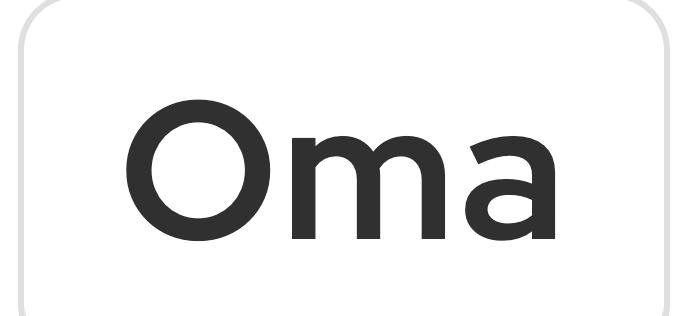
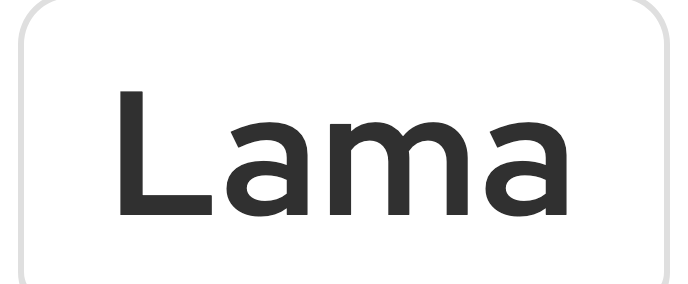
Drawings page rebuilt; sources page updated: DaZ track and voices, Sachunterricht, 793 pictures, 32 topic poses, 43 drawn components, animated badges, 160,000 clips, phrase deck

diff --git a/twist/pages/sources/index.html b/twist/pages/sources/index.html
@@ -64,7 +64,7 @@ td:first-child{font-weight:600;white-space:nowrap}
 <h2 id="read">How to read this</h2>
 <p>The labels are the R&amp;D lesson player's own names for the parts of each screen. Turn on <b>Settings › Label the parts</b> in <code>twist/pages/player/index.html</code> to see them on the live screen; <b>Screen anatomy</b> lists them too. Each row below adds what that list leaves out: the v2 field and the exact source.</p>
 <div class="legend"><span><span class="tag t-in">in v2</span> the field exists in the v2 types</span><span><span class="tag t-add">add to v2</span> the screen needs it and v2 does not carry it yet</span><span><span class="tag t-calc">app works it out</span> computed on the device from other fields</span></div>
-<p>Paths in the source column are relative to <code>twist/</code> in <code>istafrica-DieuMu/twist-content</code>. A lesson's record is <code>lessons/&lt;curriculum&gt;/&lt;year&gt;/&lt;subject&gt;/&lt;skill-slug&gt;.yaml</code>; "set" means that file, "lesson" one entry of its <code>lessons[]</code>.</p>
+<p>Paths in the source column are relative to <code>twist/</code> in <code>istafrica-DieuMu/twist-content</code>. A lesson's record is <code>lessons/&lt;curriculum&gt;/&lt;year&gt;/&lt;subject&gt;/&lt;skill-slug&gt;.yaml</code>; "set" means that file, "lesson" one entry of its <code>lessons[]</code>. A set of a track (DaZ, German as a second language, since 26 Oct 2026) lives in <code>lessons/de-DE/&lt;daz year&gt;/daz/</code> and has <code>track: daz</code>; its skill can also have a set in another subject (Englisch or Deutsch), so a lesson is found by its set id, never by its skill alone.</p>
 
 <h2 id="pipeline">From the repo to the screen</h2>
 <div class="flow">
@@ -92,14 +92,15 @@ td:first-child{font-weight:600;white-space:nowrap}
 <p>The app never builds a media URL itself; the backend sends absolute URLs. This table is for the converter and the upload: how each kind of file is named and which record key picks it.</p>
 <div class="tw"><table>
 <tr><th>Kind</th><th>File in twist/assets</th><th>Picked by</th><th>v2 field</th><th>How many</th></tr>
-<tr><td>Object pictures</td><td><code>objects/&lt;object&gt;.png</code>, or <code>objects/&lt;object&gt;.&lt;colour&gt;.png</code> for a colour version</td><td>A record's <code>object</code> (in <code>show</code>, an option, a pair side); <code>colour</code> picks the colour file when it exists, else the plain file. <code>count</code> repeats it; a story shows its amounts whole with <code>groups: [8, 5]</code> (side by side) or <code>count: 6, gone: 2</code> (2 crossed out). Ids and words: <code>assets/objects.yaml</code></td><td><code>show.image</code>, <code>show.images[]</code>, <code>option.image</code>, <code>option.show.image</code>, <code>show.imageUrls</code></td><td>326 files</td></tr>
+<tr><td>Object pictures</td><td><code>objects/&lt;object&gt;.png</code>, or <code>objects/&lt;object&gt;.&lt;colour&gt;.png</code> for a colour version</td><td>A record's <code>object</code> (in <code>show</code>, an option, a pair side); <code>colour</code> picks the colour file when it exists, else the plain file. <code>count</code> repeats it; a story shows its amounts whole with <code>groups: [8, 5]</code> (side by side) or <code>count: 6, gone: 2</code> (2 crossed out). Ids and words: <code>assets/objects.yaml</code></td><td><code>show.image</code>, <code>show.images[]</code>, <code>option.image</code>, <code>option.show.image</code>, <code>show.imageUrls</code></td><td>793 files</td></tr>
 <tr><td>Mascot poses</td><td><code>mascot/&lt;screen&gt;-&lt;1..3&gt;.png</code> (start, warmup, learn, practise, stage, check, end)</td><td>The screen kind, then one of three by rotation (see Activity intro)</td><td><code>config.mascot[kind][]</code></td><td>21</td></tr>
-<tr><td>Topic poses</td><td><code>mascot/topic-&lt;id&gt;.png</code></td><td><code>assets/mascot.yaml</code> <code>topics[]</code>: the skill's topic (<code>competencies/</code> <code>topic.en</code>), or for the language lessons the domain and curriculum</td><td><code>lesson.topicImage</code>, <code>pathSkill.topicImage</code></td><td>24</td></tr>
+<tr><td>Topic poses</td><td><code>mascot/topic-&lt;id&gt;.png</code></td><td><code>assets/mascot.yaml</code> <code>topics[]</code>: the skill's topic (<code>competencies/</code> <code>topic.en</code>), or for the language lessons the domain and curriculum</td><td><code>lesson.topicImage</code>, <code>pathSkill.topicImage</code></td><td>32 (8 for Sachunterricht)</td></tr>
 <tr><td>Task-screen mascot</td><td><code>pages/player/mascot.png</code> (from <code>mascot/refs/standing.png</code>)</td><td>Always the same</td><td>Ship in the app</td><td>1</td></tr>
-<tr><td>Narration</td><td><code>narration/&lt;voice&gt;/&lt;line-id&gt;.mp3</code></td><td>Every spoken text: <code>say</code>, or <code>text</code> when there is no say; see the next section</td><td>Every <code>audio</code> field</td><td>about 111,000 clips, 3.4 GB in 4 voices</td></tr>
+<tr><td>Narration</td><td><code>narration/&lt;voice&gt;/&lt;line-id&gt;.mp3</code></td><td>Every spoken text: <code>say</code>, or <code>text</code> when there is no say; see the next section</td><td>Every <code>audio</code> field</td><td>about 160,000 clips, 5.0 GB in 6 voices (two German, two English, two French)</td></tr>
 <tr><td>Sounds</td><td><code>narration/&lt;voice&gt;/sounds/&lt;sound-id&gt;.mp3</code> (<code>de.a:</code> becomes <code>de.a-long</code>)</td><td><code>screens[i].sound</code>, a task's <code>audio.sound</code> or <code>audio.sounds[]</code>; ids in <code>assets/sounds.yaml</code></td><td><code>screen.sound</code>, <code>interaction.targetAudio[]</code></td><td>per voice</td></tr>
-<tr><td>Drawn components</td><td>None: the app draws them; each with a picture and a real example on the player's Drawings tab (<code>pages/drawings/</code>)</td><td><code>show.drawn</code> plus its data, as in <code>assets/drawn.yaml</code> (43 components); <code>pages/player/drawn.js</code> draws them, for the player and the app</td><td><code>show.drawn</code> and its data; pictures inside one in <code>show.imageUrls</code> (a pictogram's <code>pictogram_object</code>)</td><td>37 kinds</td></tr>
+<tr><td>Drawn components</td><td>None: the app draws them; each with a picture and a real example on the player's Drawings tab (<code>pages/drawings/</code>)</td><td><code>show.drawn</code> plus its data, as in <code>assets/drawn.yaml</code> (43 components); <code>pages/player/drawn.js</code> draws them, for the player and the app</td><td><code>show.drawn</code> and its data; pictures inside one in <code>show.imageUrls</code> (a pictogram's <code>pictogram_object</code>)</td><td>43 kinds</td></tr>
 <tr><td>Badge art</td><td><code>badges/&lt;id&gt;.svg</code> and <code>&lt;id&gt;.gold.svg</code></td><td>Badge ids in <code>docs/rewards.md</code></td><td>Badge responses (later)</td><td>64</td></tr>
+<tr><td>Animated badges</td><td><code>pages/player/badges/&lt;name&gt;/</code>: artwork, still, intro video with sound, idle loop (from badge-motion-twist.netlify.app)</td><td>The 16 badges they match (<code>MOTION</code> in <code>pages/player/app-ui.js</code>); the rest stay as the SVGs above</td><td>Badge responses (later)</td><td>16</td></tr>
 <tr><td>Fonts</td><td>Not in the repo</td><td>Red Hat Display and Red Hat Text for the app frame, Andika for task text</td><td>Ship in the app</td><td></td></tr>
 </table></div>
 
@@ -108,7 +109,7 @@ td:first-child{font-weight:600;white-space:nowrap}
 <pre><code>line-id = sha1( lang + "|" + spoken(text) ).hex[0..10]
 file    = narration/&lt;voice&gt;/&lt;line-id&gt;.mp3</code></pre>
 <ul>
-<li><b>lang</b> is the set's <code>language</code> (<code>de</code> or <code>en</code>); a target-language line (English in an Englisch lesson, French) uses <code>target_language</code>.</li>
+<li><b>lang</b> is the set's <code>language</code> (<code>de</code> or <code>en</code>); a target-language line (English in an Englisch lesson, French, German in a DaZ lesson) uses <code>target_language</code>.</li>
 <li><b>spoken()</b> rewrites what is written for the screen into what is said: <code>+</code> plus, <code>−</code> minus, <code>=</code> gleich / equals, <code>_</code> wie viel / what, numbers into words in German, <code>5,70 €</code> into "fünf Euro siebzig", <code>×</code> and fractions into words in English. Two copies must stay identical: <code>assets/tools/narration.py</code> <code>spoken()</code> and <code>pages/player/build.mjs</code> <code>spoken()</code>. The converter must use the same rule, or import one of them.</li>
 <li><b>Which text:</b> a task's <code>say</code> if it has one, else its <code>text</code>. Options, hints, feedback, Learn screens, lesson titles and phrases are each their own line.</li>
 <li><b>Index:</b> <code>assets/narration/lines.yaml</code> lists every line (id, language, text, where it is used, its voices); <code>assets/narration/&lt;voice&gt;.yaml</code> logs each made clip and its listening check.</li>
@@ -119,6 +120,8 @@ file    = narration/&lt;voice&gt;/&lt;line-id&gt;.mp3</code></pre>
 <tr><td>Teaching, Warm-up, Learn, Practise, lesson titles, most phrases</td><td><code>gemini-sulafat</code></td><td><code>gemini-sulafat-en</code></td><td><code>assets/voices.yaml</code> <code>chosen</code></td></tr>
 <tr><td>Every Check task and the check_start phrase</td><td><code>gemini-puck</code></td><td><code>gemini-puck-en</code></td><td><code>assign.check</code>, <code>assign.phrases.check_start</code></td></tr>
 <tr><td>A character's line (<code>audio.speaker</code>)</td><td>male: puck, female: sulafat</td><td>male: puck-en, female: sulafat-en</td><td><code>speakers</code></td></tr>
+<tr><td>DaZ (de-DE, track <code>daz</code>)</td><td>Instructions in English: <code>gemini-sulafat-en</code>, checks <code>gemini-puck-en</code>; the German heard: <code>gemini-sulafat</code> and <code>gemini-puck</code></td><td></td><td><code>curricula: de-DE.daz</code> and <code>language_voices</code> in <code>assets/voices.yaml</code></td></tr>
+<tr><td>French (en-GB)</td><td></td><td>The French heard: <code>gemini-sulafat-fr</code>, <code>gemini-puck-fr</code></td><td><code>language_voices.fr</code></td></tr>
 </table></div>
 <div class="note"><p><b>A check pool changes the voice of nothing:</b> all 20 tasks of a pool are Check tasks and spoken by the check voice. The same task text drawn into a practice session still plays the check voice's clip.</p></div>
 
@@ -127,7 +130,7 @@ file    = narration/&lt;voice&gt;/&lt;line-id&gt;.mp3</code></pre>
 <tr><th>Label</th><th>Shows</th><th>v2 field</th><th>twist-content source</th><th></th></tr>
 <tr><td>Set title (header)</td><td>The name of the skill's lessons</td><td><code>lesson.skillTitle</code></td><td>Set <code>title[lang]</code></td><td><span class="tag t-in">in v2</span></td></tr>
 <tr><td>Topic pose</td><td>The mascot holding the topic (a clock for time, beads for numbers)</td><td><code>lesson.topicImage</code></td><td><code>assets/mascot.yaml</code> <code>topics[]</code> by the skill's topic; file <code>mascot/topic-&lt;id&gt;.png</code>. A set with no matching topic gets a start pose</td><td><span class="tag t-in">in v2</span></td></tr>
-<tr><td>Subject</td><td>Mathe, Deutsch, Englisch, Maths, English, French, in the subject's colour</td><td><code>subjectId</code>; name from <code>Subject.name</code>; colour <span class="tag t-add">add</span> to <code>config.colours</code> by subject</td><td>The set id's second part (<code>de-DE.<b>math</b>.table-7</code>). Colours today in the player: maths <code>#0E8654</code>, Deutsch <code>#C44D00</code>, English and Englisch <code>#1971C0</code>, French <code>#6849dd</code></td><td><span class="tag t-in">in v2</span></td></tr>
+<tr><td>Subject</td><td>Mathe, Deutsch, Englisch, Sachunterricht, DaZ, Maths, English, French, in the subject's colour</td><td><code>subjectId</code>; name from <code>Subject.name</code>; colour <span class="tag t-add">add</span> to <code>config.colours</code> by subject</td><td>The set id's second part (<code>de-DE.<b>math</b>.table-7</code>). Colours today in the player: maths <code>#0E8654</code>, Deutsch <code>#C44D00</code>, English and Englisch <code>#1971C0</code>, French <code>#6849dd</code>, Sachunterricht <code>#0B8A8F</code>, DaZ <code>#C2255C</code></td><td><span class="tag t-in">in v2</span></td></tr>
 <tr><td>Lesson title</td><td>Big, under the subject</td><td><code>lesson.title</code>, spoken <code>lesson.titleAudio</code></td><td>Lesson <code>title[lang]</code>; clip of that title in the lesson voice</td><td><span class="tag t-in">in v2</span></td></tr>
 <tr><td>Lesson dots</td><td>One dot per lesson of the set: done, today, to come</td><td><code>lessonNumber</code>, <code>lessonCount</code></td><td>Position in the set's <code>lessons[]</code>; done comes from progress</td><td><span class="tag t-calc">app works it out</span></td></tr>
 <tr><td>Goal (Ziel / Goal)</td><td>What this lesson is for, in a child's words</td><td><code>lesson.goal</code></td><td>The lesson's own <code>lessons[].goal[lang]</code> in the lesson file, written by hand from the skill's <code>can_do</code> but never copied or built from it. <b>Not</b> the set's <code>summary</code>, which no screen shows</td><td><span class="tag t-add">add to v2</span></td></tr>
@@ -224,12 +227,14 @@ file    = narration/&lt;voice&gt;/&lt;line-id&gt;.mp3</code></pre>
 <h2 id="gaps">Changes for the v2 page</h2>
 <p>The v2 page was agreed on 16 Oct 2026 at content version <code>eb9c2e7f</code>. The content has moved since; these are the points where the screens and the contract now differ.</p>
 <ol>
-<li><b>Check pools.</b> A <code>CHECK</code> activity can hold 20 tasks with <code>draw: 5</code> and a <code>part</code> on each (6 with <code>draw: 3</code> for a quick check). The backend draws one attempt with <code>drawCheck</code> (twist/pages/player/practice-rules.mjs) and sends only those tasks; it stores the last attempt so the next one differs. 225 of 918 sets have pools so far.</li>
+<li><b>Check pools.</b> A <code>CHECK</code> activity can hold 20 tasks with <code>draw: 5</code> and a <code>part</code> on each (6 with <code>draw: 3</code> for a quick check). The backend draws one attempt with <code>drawCheck</code> (twist/pages/player/practice-rules.mjs) and sends only those tasks; it stores the last attempt so the next one differs. Every set has a pool (1032 of 1032).</li>
 <li><b>Skill states.</b> <code>SECURE</code> is now <code>can_do</code>, <code>MASTERED</code> is <code>remembered</code>, <code>NEEDS_RECAP</code> is <code>needs_refresh</code>, and recaps follow the age band (1, 4, 10 days at ages 4 to 5; 2, 7, 14 at 6 to 7; 2, 7, 21 at 8 to 10). See docs/lesson-anatomy.md, Mastery.</li>
 <li><b>Subject colours</b> in <code>config.colours</code>, keyed by subject, for the start screen, the activity screens and the progress bar.</li>
 <li><b>Pose rotation:</b> state the player's rule (above) so the app and the player show the same pose.</li>
 <li><b>Practice:</b> drill banks (twist/drills/) and practice sessions as in docs/practice.md.</li>
 <li><b>The drawing rules</b> listed under Task screen.</li>
+<li><b>Two new subjects</b> (26 Oct 2026): Sachunterricht (<code>de-DE.world</code>, Klasse 1 to 4, 112 sets) and DaZ (<code>de-DE.daz</code>, a track with its own years DaZ Start, DaZ Buchstaben, DaZ 1 and DaZ 2). The backend has no subject code for either yet. A DaZ set uses the same skill ids as Englisch or Deutsch, so progress is kept per set (or per subject and skill), not per skill alone.</li>
+<li><b>Phrases between tasks</b> come about ten to a group and are dealt like a deck: every line once, in a new order, before any repeats, and a new deck never starts with the line just said.</li>
 <li><b>Story pictures:</b> <code>Show</code> needs <code>groups</code> (amounts side by side, one picture repeated) and <code>gone</code> (the last n of <code>count</code> crossed out). 166 tasks use <code>groups</code> and 95 use <code>gone</code>; a converter that keeps only <code>image</code>, <code>count</code> and <code>layout</code> drops the story.</li>
 </ol>
 <h3>What today's app does with these fields</h3>
@@ -238,7 +243,7 @@ file    = narration/&lt;voice&gt;/&lt;line-id&gt;.mp3</code></pre>
 <li><b>The goal is never shown.</b> The module's learning objective is read into <code>module_metadata.description</code> and no screen uses it; Twist shows each lesson's <code>goal</code> on its start screen.</li>
 <li><b>Hint audio never plays</b> and <b>feedback audio is dropped</b> in the adapter; every Twist hint and feedback line has a clip.</li>
 <li><b>UI text is hard-coded English</b> ("ANSWER", "CONTINUE", "TRY AGAIN", "HINT n OF m") with no localisation; Twist lessons run in German or English by the lesson's <code>language</code>.</li>
-<li><b>Mascots are bundled</b> in the app (<code>assets/images/states/</code>); Twist has 21 screen poses and 24 topic poses.</li>
+<li><b>Mascots are bundled</b> in the app (<code>assets/images/states/</code>); Twist has 21 screen poses and 32 topic poses.</li>
 <li><b>Media URLs</b> already arrive absolute and are cached by a regex over the JSON (<code>services/quiz/mediaCache.ts</code>), which works unchanged for Twist.</li>
 </ul>
 </main>

diff --git a/twist/pages/drawings/index.html b/twist/pages/drawings/index.html
@@ -80,7 +80,7 @@ td:first-child{font-weight:600;white-space:nowrap}
 .dc-pic-col{min-width:0}</style>
 </head><body><div class="layout"><main>
 <h1>Drawings</h1>
-<p class="lede">The 43 drawn components a Twist lesson screen can show, each with real examples from the lessons drawn by the lesson player, its data, and its source. The lessons use them 18,949 times.</p>
+<p class="lede">The 43 drawn components a Twist lesson screen can show, each with real examples from the lessons drawn by the lesson player, its data, and its source. The lessons use them 18,984 times.</p>
 
 <h2 id="code">Use our drawing code</h2>
 <p>Every drawing is a plain JavaScript function of the record's <code>show</code> data, in one file: <a href="../player/drawn.js"><code>twist/pages/player/drawn.js</code></a>. The lesson player inlines that same file, so what you see on these cards is what the file draws. The app can take the file as it is.</p>
@@ -2938,12 +2938,12 @@ function spinner(o) {
 <div class="dc-body"><h4><code>letter-card</code> <span class="kind html">HTML</span></h4>
 <p>A letter or a group of letters on a card, upper and lower case. Each word on its own card; highlight_in_text tasks tap words on the cards.</p>
 <dl><dt>Data</dt><dd>text: 'Mm', style: [print, highlight-first]</dd>
-<dt>In use</dt><dd>3508 uses in lit-de, math, fl, lit-en; Learn screens; task types <code>true_false</code> <code>highlight_in_text</code> <code>multiple_choice</code> <code>image_multiple_choice</code> <code>fill_in_blank</code> <code>text_input</code> <code>speak</code>; fields <code>flash</code> <code>key</code> <code>text</code></dd>
+<dt>In use</dt><dd>3528 uses in daz, lit-de, math, fl, lit-en; Learn screens; task types <code>highlight_in_text</code> <code>true_false</code> <code>multiple_choice</code> <code>image_multiple_choice</code> <code>fill_in_blank</code> <code>text_input</code> <code>speak</code>; fields <code>flash</code> <code>key</code> <code>text</code></dd>
 <dt>Forms</dt><dd>1 in the lessons; the big picture: plain</dd>
-<dt>Example</dt><dd>de-DE/klasse-1/lit-de/alphabet · l1-f5</dd></dl>
+<dt>Example</dt><dd>de-DE/daz-letters/daz/de-l-o-a-m · l1-f4</dd></dl>
 <pre><code>show:
   drawn: letter-card
-  text: R S T U</code></pre>
+  text: L o l M L a</code></pre>
 <details><summary>Source in drawn.js (0 functions)</summary><pre><code>// drawn(): case "letter-card": return `&lt;div class="cards"&gt;${(o.text.includes(" ") ? o.text.split(" ") : [o.text]).map((t) =&gt; `&lt;div class="card"&gt;${esc(t)}&lt;/div&gt;`).join("")}&lt;/div&gt;`;
 
 </code></pre></details></div></article>
@@ -2953,12 +2953,12 @@ function spinner(o) {
 <div class="dc-body"><h4><code>word-card</code> <span class="kind html">HTML</span></h4>
 <p>A word or short sentence in large print, for reading tasks.</p>
 <dl><dt>Data</dt><dd>text: 'Mama', syllable_colours: optional</dd>
-<dt>In use</dt><dd>720 uses in lit-de, world, fl; Learn screens; task types <code>image_multiple_choice</code> <code>true_false</code> <code>multiple_choice</code> <code>ordering</code> <code>fill_in_blank</code> <code>speak</code> <code>text_input</code>; fields <code>flash</code> <code>text</code></dd>
+<dt>In use</dt><dd>725 uses in daz, lit-de, world, fl; Learn screens; task types <code>image_multiple_choice</code> <code>true_false</code> <code>multiple_choice</code> <code>ordering</code> <code>fill_in_blank</code> <code>speak</code> <code>text_input</code>; fields <code>flash</code> <code>text</code></dd>
 <dt>Forms</dt><dd>1 in the lessons; the big picture: plain</dd>
-<dt>Example</dt><dd>de-DE/klasse-1/lit-de/blend-syllables · l2-c3</dd></dl>
+<dt>Example</dt><dd>de-DE/daz-letters/daz/de-l-o-a-m · l3-s3</dd></dl>
 <pre><code>show:
   drawn: word-card
-  text: Oma</code></pre>
+  text: Lama</code></pre>
 <details><summary>Source in drawn.js (0 functions)</summary><pre><code>// drawn(): case "word-card": return `&lt;div class="word"&gt;&lt;span class="wordcard"&gt;${esc(o.text)}&lt;/span&gt;&lt;/div&gt;`;
 
 </code></pre></details></div></article>
@@ -2968,29 +2968,30 @@ function spinner(o) {
 <div class="dc-body"><h4><code>syllable-arcs</code> <span class="kind html">HTML</span> <span>Silbenbögen · syllable arcs</span></h4>
 <p>A word with syllable arcs drawn under it (Silbenbögen).</p>
 <dl><dt>Data</dt><dd>word: Lama, syllables: [La, ma]</dd>
-<dt>In use</dt><dd>126 uses in lit-de, lit-en; Learn screens; task types <code>true_false</code> <code>image_multiple_choice</code>; fields <code>syllables</code> <code>word</code></dd>
+<dt>In use</dt><dd>130 uses in daz, lit-de, lit-en; Learn screens; task types <code>image_multiple_choice</code> <code>true_false</code>; fields <code>syllables</code> <code>word</code></dd>
 <dt>Forms</dt><dd>1 in the lessons; the big picture: plain</dd>
-<dt>Example</dt><dd>de-DE/klasse-1/lit-de/blend-syllables · l1-f5</dd></dl>
+<dt>Example</dt><dd>de-DE/daz-letters/daz/de-l-o-a-m · l3-f2</dd></dl>
 <pre><code>show:
   drawn: syllable-arcs
-  word: Ma
+  word: Oma
   syllables:
-    - Ma</code></pre>
+    - O
+    - ma</code></pre>
 <details><summary>Source in drawn.js (0 functions)</summary><pre><code>// drawn(): case "syllable-arcs": return `&lt;div class="word"&gt;${o.syllables.map((s) =&gt; `&lt;span class="syl"&gt;${esc(s)}&lt;/span&gt;`).join("")}&lt;/div&gt;`;
 
 </code></pre></details></div></article>
 <article class="dc" id="d-writing-lines">
 <div class="dc-pic-col"><div class="dc-pic"><img src="drawn/writing-lines.png" alt="School writing lines with a letter or word to trace or copy, in the curriculum's script, drawn by the lesson player" loading="lazy"></div>
-<div class="dc-more"><figure><img src="drawn/writing-lines-2.png" alt="" loading="lazy"><figcaption>mode: copy · 128</figcaption></figure><figure><img src="drawn/writing-lines-3.png" alt="" loading="lazy"><figcaption>mode: trace, script: joined · 58</figcaption></figure><figure><img src="drawn/writing-lines-4.png" alt="" loading="lazy"><figcaption>mode: copy, script: joined · 56</figcaption></figure></div></div>
+<div class="dc-more"><figure><img src="drawn/writing-lines-2.png" alt="" loading="lazy"><figcaption>mode: copy · 130</figcaption></figure><figure><img src="drawn/writing-lines-3.png" alt="" loading="lazy"><figcaption>mode: trace, script: joined · 58</figcaption></figure><figure><img src="drawn/writing-lines-4.png" alt="" loading="lazy"><figcaption>mode: copy, script: joined · 56</figcaption></figure></div></div>
 <div class="dc-body"><h4><code>writing-lines</code> <span class="kind html">HTML</span></h4>
 <p>School writing lines with a letter or word to trace or copy, in the curriculum's script. Handwriting lines in the child's script; tracing tasks draw over them (trace) or copy beside them (copy).</p>
 <dl><dt>Data</dt><dd>text: 'l', mode: [trace, copy], arrows: true, script: joined (Schreibschrift in the school's Ausgangsschrift: SAS, LA, VA or Grundschrift, a setting by Land; print if left out)</dd>
-<dt>In use</dt><dd>421 uses in lit-de, math, fl, lit-en; Learn screens; task types <code>tracing</code> <code>multiple_choice</code>; fields <code>arrows</code> <code>mode</code> <code>script</code> <code>text</code></dd>
+<dt>In use</dt><dd>427 uses in daz, lit-de, math, fl, lit-en; Learn screens; task types <code>tracing</code> <code>multiple_choice</code>; fields <code>arrows</code> <code>mode</code> <code>script</code> <code>text</code></dd>
 <dt>Forms</dt><dd>4 in the lessons; the big picture: mode: trace</dd>
-<dt>Example</dt><dd>de-DE/klasse-1/lit-de/letters-c-y-x-aeu-ck-ss · l1-f6</dd></dl>
+<dt>Example</dt><dd>de-DE/daz-letters/daz/de-l-o-a-m · l1-f6</dd></dl>
 <pre><code>show:
   drawn: writing-lines
-  text: ck
+  text: l
   mode: trace
   arrows: true</code></pre>
 <details><summary>Source in drawn.js (2 functions)</summary><pre><code>// drawn(): case "writing-lines": return `&lt;div class="trace"&gt;${writing(o.text, o.mode, o.script === "joined")}&lt;/div&gt;`;

diff --git a/twist/pages/drawings/standalone.html b/twist/pages/drawings/standalone.html
@@ -27,7 +27,7 @@ var esc = (s) => String(s ?? "").replace(/[&<>"]/g, (c) => ({ "&": "&amp;", "<":
 <script src="../player/drawn.js"></script>
 <script>
 // 2. Draw: drawn(record) returns an SVG or HTML string.
-const SAMPLES = [{"drawn":"dots","array":[2,6]},{"drawn":"ten-frame","filled":5,"colour_split":[4,1]},{"drawn":"zwanzigerfeld","filled":[10,3]},{"drawn":"number-line","from":0,"to":20,"labels":"tens","mark":17},{"drawn":"rechenstrich","start":6,"jumps":[4,3]},{"drawn":"equation","text":"14 − 6 = _","split":"6 = 4 + 2"},{"drawn":"part-whole","whole":null,"parts":[3,1]},{"drawn":"number-house","roof":5,"rows":[[2,null]]},{"drawn":"written-calc","rows":["312","176"],"op":"+"},{"drawn":"number-wall","rows":[[6,4],[null]]},{"drawn":"base-ten","tens":1},{"drawn":"hundred-field","filled":30,"flash":2},{"drawn":"place-value-chart","columns":["tens","ones"],"values":[1,2]},{"drawn":"hundred-square","highlight":[30,31]},{"drawn":"clock","hour":1,"minute":30},{"drawn":"ruler","to":10,"length":8},{"drawn":"coins","values":[50]},{"drawn":"shape","row":["square","square"],"colours":"green"},{"drawn":"letter-card","text":"R S T U"},{"drawn":"syllable-arcs","word":"Ma","syllables":["Ma"]},{"drawn":"writing-lines","text":"ck","mode":"trace","arrows":true},{"drawn":"sound-chart","letters":["m","s","f","l"],"pictures":{"m":"mouse","s":"sun","f":"fish","l":"lamp"},"gaps":["f"],"columns":4},{"drawn":"word-card","text":"Oma"},{"drawn":"colour-swatch","colour":"red"},{"drawn":"bar-chart","rows":[["Apfel",5],["Banane",3],["Erdbeere",7]]},{"drawn":"grid","cols":4,"rows":2,"lines":[[1,0,3,0],[3,0,3,2],[3,2,1,2],[1,2,1,0]]},{"drawn":"cubes","plan":[[2,1]],"mode":"building","colour":"blue"},{"drawn":"fraction","kind":"circle","parts":4,"shaded":3},{"drawn":"spinner","sectors":["red","red","red","red"]},{"drawn":"table","rows":[["Dienst","Kind"],["Tafel","Mia"],["Blumen","Jonas"],["Müll","Ella"]]},{"drawn":"angle","degrees":60,"label":false},{"drawn":"circle","parts":["centre"],"highlight":"centre"},{"drawn":"coordinates","quadrants":1,"max":6,"points":[[4,1,"A"]]},{"drawn":"line-graph","rows":[["9am",8],["10am",10],["11am",13],["12pm",15],["1pm",16],["2pm",14],["3pm",12]],"step":2,"ylabel":"°C"},{"drawn":"pie-chart","parts":[["Frühling",3],["Sommer",3],["Herbst",3],["Winter",3]]},{"drawn":"thermometer","from":-10,"to":30,"step":5,"value":25},{"drawn":"short-division","divisor":2,"dividend":"684","quotient":"___"},{"drawn":"germany-map","labels":"capitals"},{"drawn":"world-map","names":{"north-america":"1","south-america":"2","europe":"3","africa":"4","asia":"5","australia":"6","antarctica":"7"}},{"drawn":"junction","users":[{"kind":"you","arm":"south","go":"straight"},{"kind":"car","arm":"east","go":"straight"}]},{"drawn":"circuit","switch":false,"gap":{"label":"Holzlöffel","conductor":false},"bulb":"?"},{"drawn":"water-cycle","step":"condensation","gap":"condensation"},{"drawn":"timeline","from":1830,"to":1890,"step":10,"events":[[1835,"erste Eisenbahn"],[1886,"erstes Auto"]]}];
+const SAMPLES = [{"drawn":"dots","array":[2,6]},{"drawn":"ten-frame","filled":5,"colour_split":[4,1]},{"drawn":"zwanzigerfeld","filled":[10,3]},{"drawn":"number-line","from":0,"to":20,"labels":"tens","mark":17},{"drawn":"rechenstrich","start":6,"jumps":[4,3]},{"drawn":"equation","text":"14 − 6 = _","split":"6 = 4 + 2"},{"drawn":"part-whole","whole":null,"parts":[3,1]},{"drawn":"number-house","roof":5,"rows":[[2,null]]},{"drawn":"written-calc","rows":["312","176"],"op":"+"},{"drawn":"number-wall","rows":[[6,4],[null]]},{"drawn":"base-ten","tens":1},{"drawn":"hundred-field","filled":30,"flash":2},{"drawn":"place-value-chart","columns":["tens","ones"],"values":[1,2]},{"drawn":"hundred-square","highlight":[30,31]},{"drawn":"clock","hour":1,"minute":30},{"drawn":"ruler","to":10,"length":8},{"drawn":"coins","values":[50]},{"drawn":"shape","row":["square","square"],"colours":"green"},{"drawn":"letter-card","text":"L o l M L a"},{"drawn":"syllable-arcs","word":"Oma","syllables":["O","ma"]},{"drawn":"writing-lines","text":"l","mode":"trace","arrows":true},{"drawn":"sound-chart","letters":["m","s","f","l"],"pictures":{"m":"mouse","s":"sun","f":"fish","l":"lamp"},"gaps":["f"],"columns":4},{"drawn":"word-card","text":"Lama"},{"drawn":"colour-swatch","colour":"red"},{"drawn":"bar-chart","rows":[["Apfel",5],["Banane",3],["Erdbeere",7]]},{"drawn":"grid","cols":4,"rows":2,"lines":[[1,0,3,0],[3,0,3,2],[3,2,1,2],[1,2,1,0]]},{"drawn":"cubes","plan":[[2,1]],"mode":"building","colour":"blue"},{"drawn":"fraction","kind":"circle","parts":4,"shaded":3},{"drawn":"spinner","sectors":["red","red","red","red"]},{"drawn":"table","rows":[["Dienst","Kind"],["Tafel","Mia"],["Blumen","Jonas"],["Müll","Ella"]]},{"drawn":"angle","degrees":60,"label":false},{"drawn":"circle","parts":["centre"],"highlight":"centre"},{"drawn":"coordinates","quadrants":1,"max":6,"points":[[4,1,"A"]]},{"drawn":"line-graph","rows":[["9am",8],["10am",10],["11am",13],["12pm",15],["1pm",16],["2pm",14],["3pm",12]],"step":2,"ylabel":"°C"},{"drawn":"pie-chart","parts":[["Frühling",3],["Sommer",3],["Herbst",3],["Winter",3]]},{"drawn":"thermometer","from":-10,"to":30,"step":5,"value":25},{"drawn":"short-division","divisor":2,"dividend":"684","quotient":"___"},{"drawn":"germany-map","labels":"capitals"},{"drawn":"world-map","names":{"north-america":"1","south-america":"2","europe":"3","africa":"4","asia":"5","australia":"6","antarctica":"7"}},{"drawn":"junction","users":[{"kind":"you","arm":"south","go":"straight"},{"kind":"car","arm":"east","go":"straight"}]},{"drawn":"circuit","switch":false,"gap":{"label":"Holzlöffel","conductor":false},"bulb":"?"},{"drawn":"water-cycle","step":"condensation","gap":"condensation"},{"drawn":"timeline","from":1830,"to":1890,"step":10,"events":[[1835,"erste Eisenbahn"],[1886,"erstes Auto"]]}];
 document.getElementById("out").innerHTML = SAMPLES.map((o) => { let h; try { h = drawn(o); } catch (e) { h = "<b>" + esc(e.message) + "</b>"; } return "<figure><div>" + h + "</div><figcaption>" + esc(o.drawn) + "</figcaption></figure>"; }).join("");
 </script>
 </body></html>
